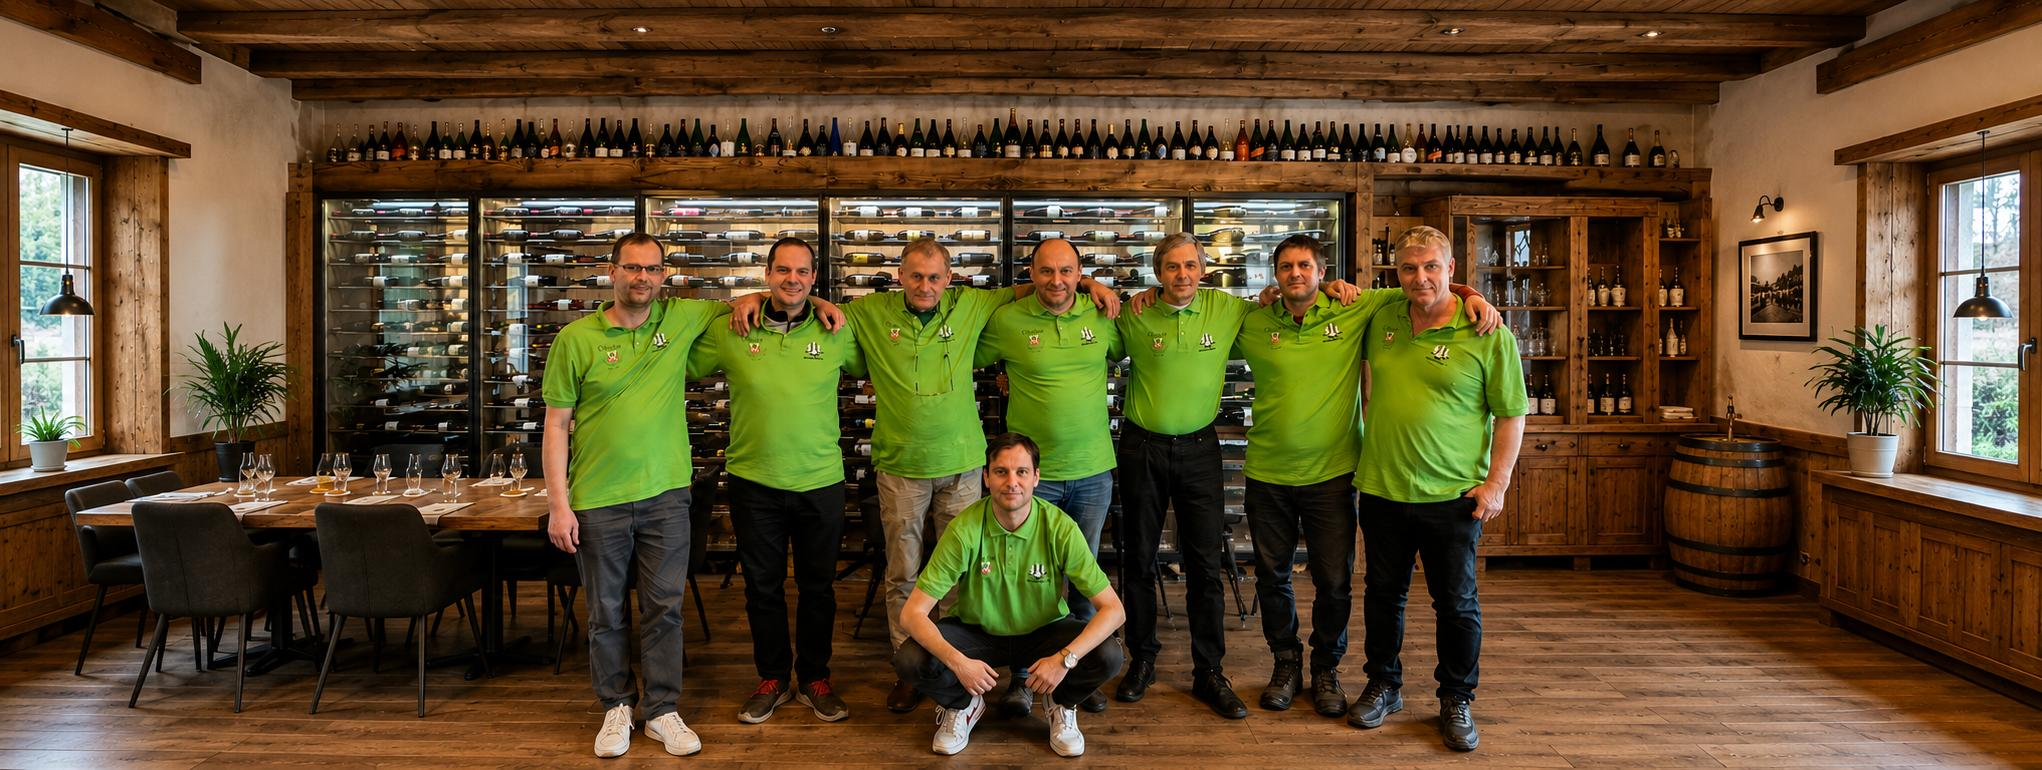
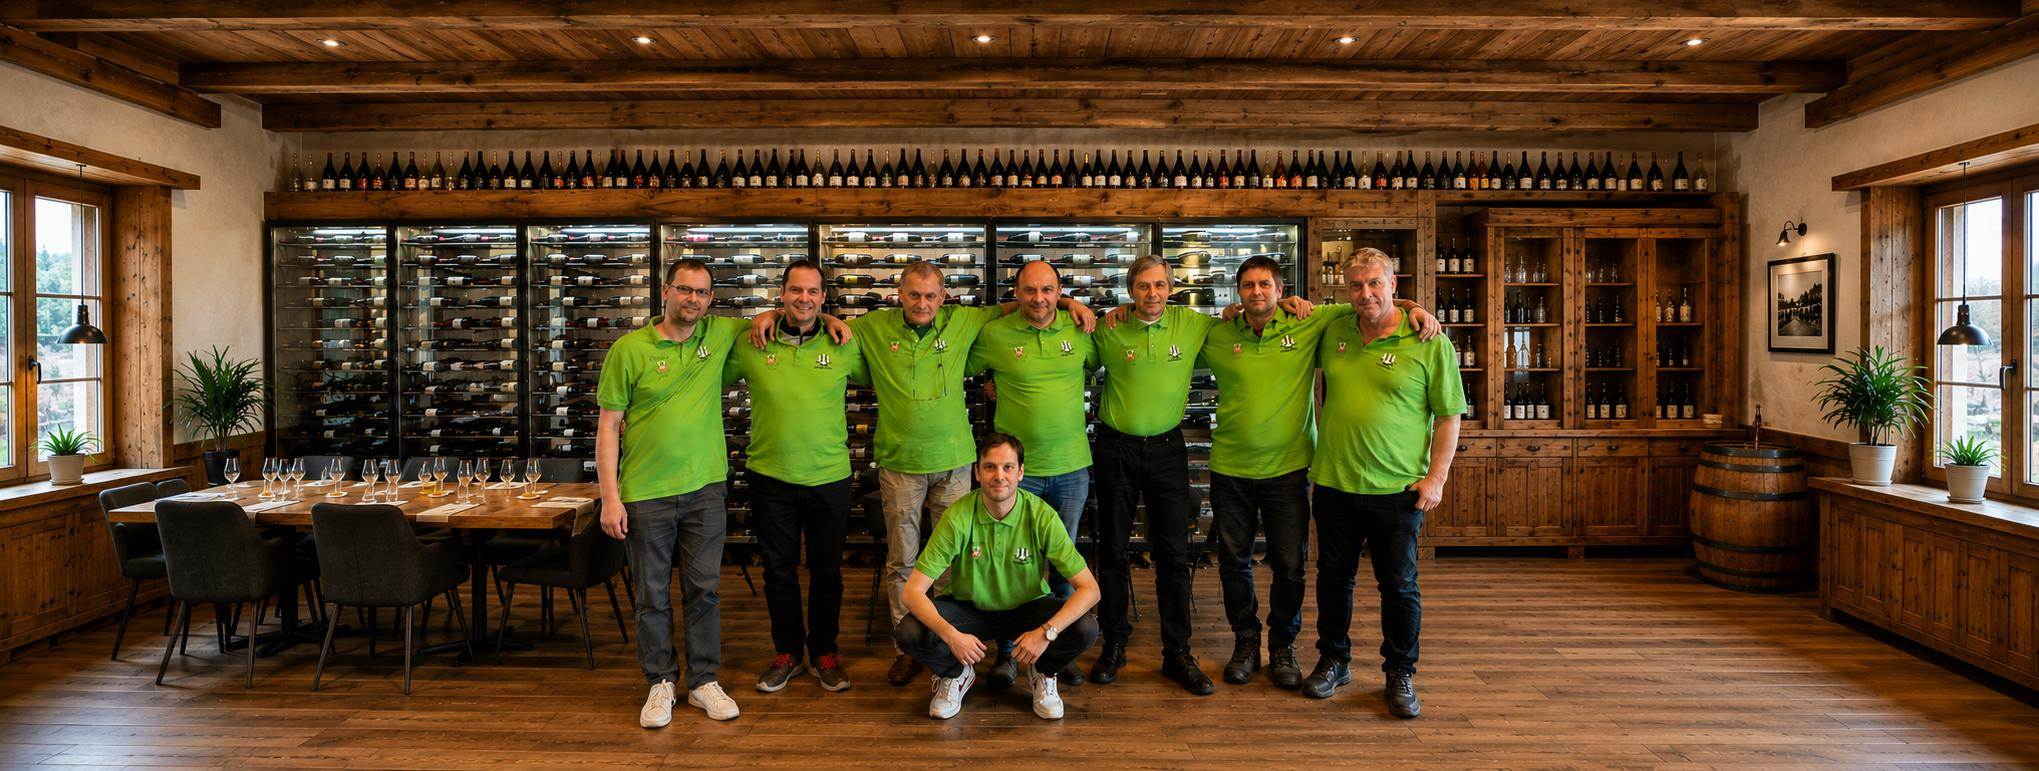
wider image

diff --git a/assets/orechov/css/style.css b/assets/orechov/css/style.css
@@ -119,7 +119,7 @@
 
   /* ---------- Layout ---------- */
   --header-h: 64px;
-  --hero-h: 50vh;
+  --hero-h: 40vh;
   --content-max: 720px;
   --content-wide: 1080px;
   --board-size: min(480px, 70vw);